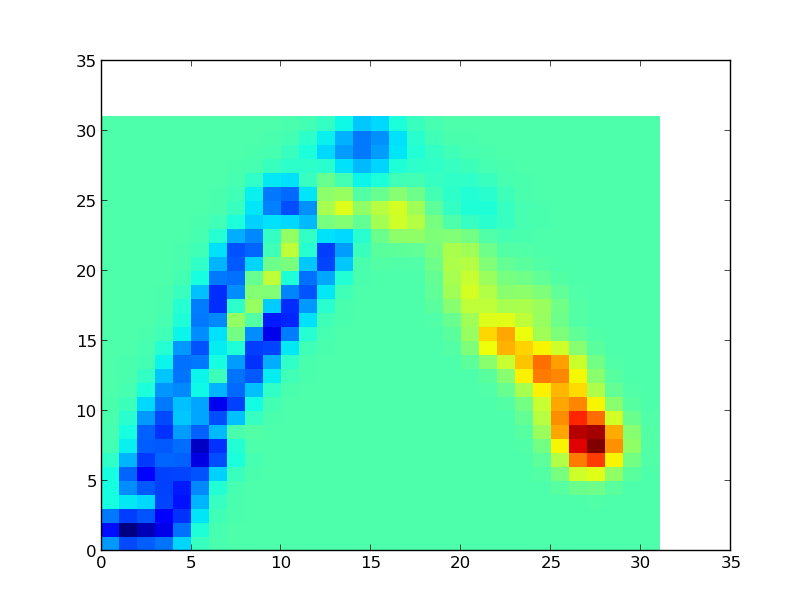
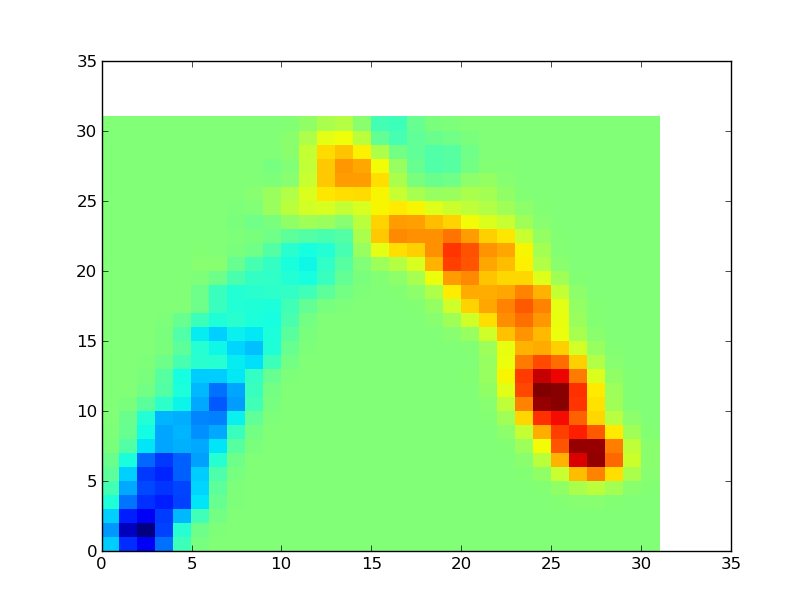
updates under src folder to neural net and weights data

diff --git a/miniproject2/src/track.py b/miniproject2/src/track.py
@@ -171,7 +171,7 @@ class track:
              [self.finish_line[0,1], self.finish_line[1,1]], color='black', ls='--', lw=5)
         
         figsize = 0.15
-        imshow(self.car_img[:,::-1],origin='lower',extent=(self.pos[0]-figsize/2,self.pos[0]+figsize/2,self.pos[1]-figsize/2,self.pos[1]+figsize/2))
+        imshow(self.car_img[:,::-1],extent=(self.pos[0]-figsize/2,self.pos[0]+figsize/2,self.pos[1]-figsize/2,self.pos[1]+figsize/2))
         
         title(self.message)
         

diff --git a/miniproject2/src/neural_network.py b/miniproject2/src/neural_network.py
@@ -104,7 +104,7 @@ number of output neurons also
         # print "delta:", delta
         
     #    self.time += 1
-        self.weights[action] += (self.eta * delta * self.el_traces[action])
+        self.weights += (self.eta * delta * self.el_traces)
         '''
         plotter.plotWeights(self.weights[action])
         
